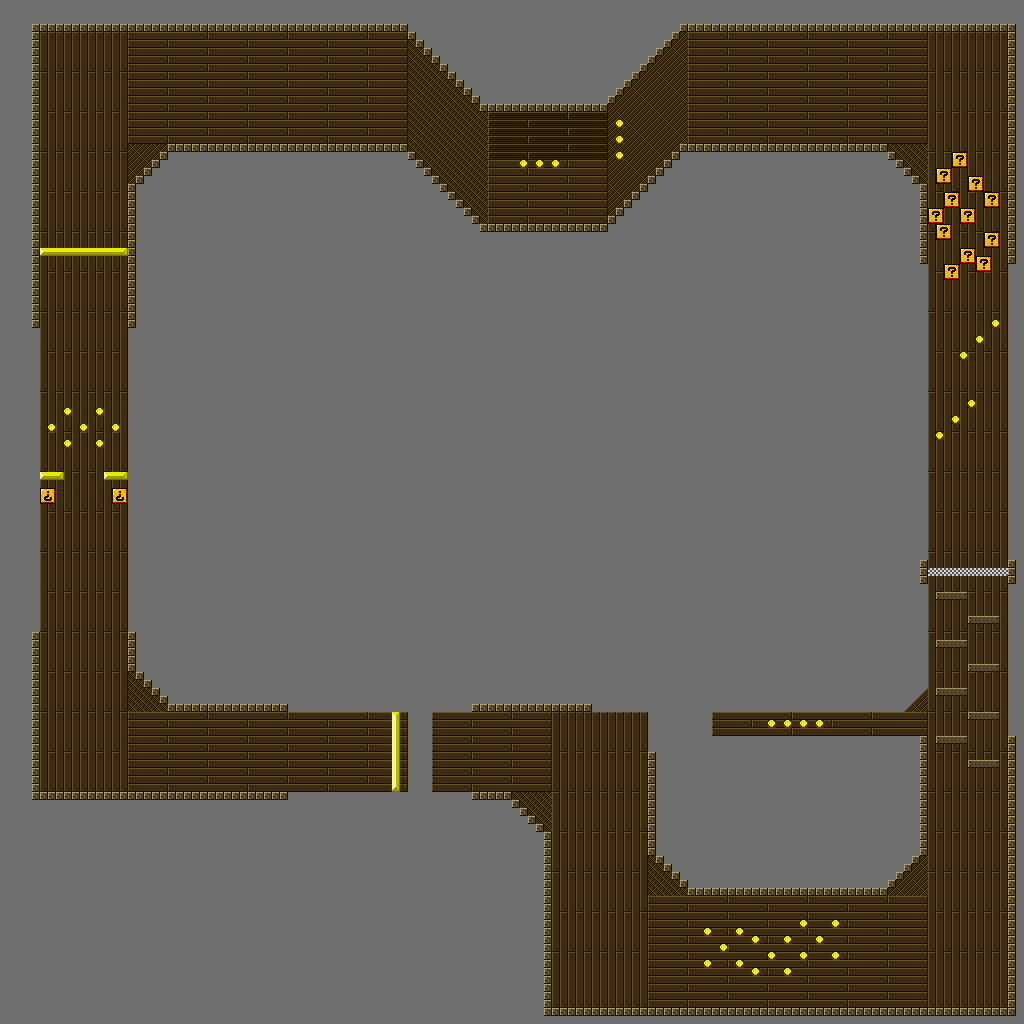
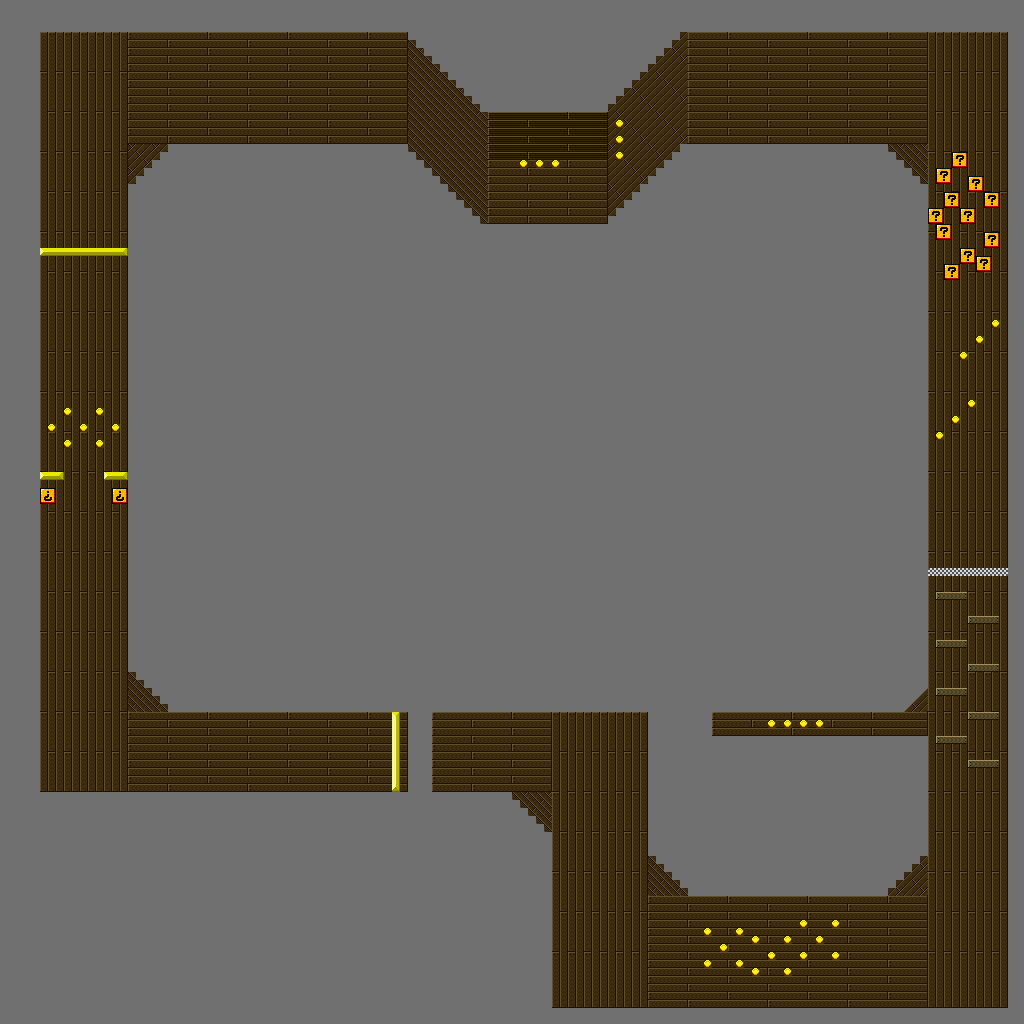
Minor changes

diff --git a/track.py b/track.py
@@ -5,6 +5,7 @@ from graphics import sprite_seq
 
 # self.data
 WALL = chr(0)
+GHOST = chr(40)
 DEEP = chr(50)
 GRASS = chr(127)
 ROAD = chr(255)
@@ -46,11 +47,17 @@ class Track(object):
 		self.data = pyglet.resource.file("%st.pgm" % track_num).read()[15:]
 		self.special_data = pyglet.resource.file("%ss.pgm" % track_num).read()[15:]
 		self.beacons = self.make_beacons()
+		self.objects = {}
 		
 		# create the track's special elements
 		self.item_blocks = {} # dictionary of item blocks indexed by the small coordinates (128x128) of their NE corner
 		self.item_blocks_list = [] # list of item blocks to update at the end of each turn
 		self.start_positions = []
+		# Parse data to place special objects (coins, vanishing wall, ice blocks)
+		for i, c in enumerate(self.data):
+			if c == GHOST:
+				x, y = i % 128, 127 - i / 128
+				self.objects[(x, y)] = ObjectGhostWall(self, x, y)
 		# Parse special data for track elements (finish line, starting positions, etc.)
 		for i, c in enumerate(self.special_data):
 			if c == FINISH and self.special_data[i-1] != FINISH:
@@ -68,7 +75,7 @@ class Track(object):
 			# item block
 				x, y = i % 128, 127 - i/128
 				if not (x, y) in self.item_blocks.keys():
-					new_block = ObjectItemBlock(self, (x+1)*8, y*8)
+					new_block = ObjectItemBlock(self, (x+1), y)
 					self.item_blocks_list.append(new_block)
 					self.item_blocks[(x, y)] = new_block # an item block spans 4 cells in the 128x128 map
 					self.item_blocks[(x+1, y)] = new_block
@@ -82,6 +89,7 @@ class Track(object):
 			self.make_beacons_map()
 			pyglet.resource.reindex()
 			self.beacons_map = pyglet.resource.file("%sbm.pgm" % track_num).read()[15:]
+		print self.objects
 	
 	def make_beacons(self):
 		"""computes the sequence of beacon points from the beacons file"""
@@ -152,19 +160,28 @@ class Track(object):
 		bid = self.get_beacon_id(position)
 		return Vector(self.beacons[bid].x * 8, self.beacons[bid].y * 8)
 	
-	def type(self, position, special=False):
+	def type(self, position, special=False, hit=False):
 		"""returns the track type at given position"""
-		x, y = int(position.x), int(position.y)
-		x = x/8 # compensate for data scale
-		y = 127 - y/8
+		x, y = int(position.x) / 8, int(position.y) / 8
+		i  = x + 128*(127-y)
 		if special:
 			if not(0 <= x < 128 and 0 <= y < 128): # out of map
 				return EMPTY
-			return self.special_data[(x + 128*y)]
+			return self.special_data[i]
 		else:
 			if not(0 <= x < 128 and 0 <= y < 128): # out of map
 				return WALL
-			return self.data[(x + 128*y)]
+			data = self.data[i]
+			if data == GHOST: # ghost house vanishing wall
+				print "Ghost", x, y
+				if (x,y) in self.objects:
+					if hit:
+						self.objects.pop((x, y))
+					return WALL
+				else:
+					return DEEP
+			else:
+				return data
 	
 	def ground_friction(self, position):
 		"""returns the ground friction coefficient corresponding to the given position on the track"""
@@ -178,12 +195,12 @@ class Track(object):
 		for block in self.item_blocks_list:
 			block.update(dt)
 
-class ObjectItemBlock():
+class ObjectItemBlock(object):
+	"""A '?' block that gives a powerup when a car passes on it"""
 	def __init__(self, track, x, y):
 		self.track = track
-		self.position = (x, y)
 		self.delay = 0. # time before it is active again (after being used)
-		self.sprite = pyglet.sprite.Sprite(sprite_seq[10], x, y, batch=self.track.window.batch, group=track.objects_group)
+		self.sprite = pyglet.sprite.Sprite(sprite_seq[10], 8*x, 8*y, batch=self.track.window.batch, group=track.objects_group)
 	def update(self, dt):
 		if self.delay > 0:
 			self.delay -= dt
@@ -193,3 +210,8 @@ class ObjectItemBlock():
 	def activate(self):
 		self.delay = 15.
 		self.sprite.image = sprite_seq[11]
+class ObjectGhostWall(object):
+	"""A wall that disappears when hit by a car or particle"""
+	def __init__(self, track, x, y):
+		self.track = track
+		self.sprite = pyglet.sprite.Sprite(sprite_seq[40], 8 * x + 4, 8 * y + 4, batch=track.window.batch, group=track.objects_group)

diff --git a/items.py b/items.py
@@ -179,12 +179,38 @@ class ParticleGreenShell(Particle):
 		current_position = self.position
 		move = self.get_direction_vector() * self.speed * dt
 		new_position = current_position + move
-		if track.type(new_position) == WALL:
+		if track.type(new_position, hit=True) == WALL:
 		# the shell bounces
-			if track.type(current_position + Vector(move.x, 0)) != WALL:
-				self.direction = -self.direction # bounce against a horizontal wall
-			if track.type(current_position + Vector(0, move.y)) != WALL:
-				self.direction = -self.direction + math.pi # bounce against a vertical wall
+			x = math.floor(new_position.x / 8)
+			y = math.floor(new_position.y / 8)
+			move_left = Vector(-move.y, move.x)
+			if move.x >= 0:
+				if move.y >= 0:
+					to_corner = Vector(8*x - current_position.x, 8*y - current_position.y)
+					if move_left * to_corner >= 0:
+						self.direction = -self.direction
+					else:
+						self.direction = -self.direction + math.pi
+				else:
+					to_corner = Vector(8*x - current_position.x, 8*(y+1) - current_position.y)
+					if move_left * to_corner >= 0:
+						self.direction = -self.direction + math.pi
+					else:
+						self.direction = -self.direction
+			else:
+				if move.y >=0:
+					to_corner = Vector(8*(x+1) - current_position.x, 8*y - current_position.y)
+					if move_left * to_corner >= 0:
+						self.direction = -self.direction + math.pi
+					else:
+						self.direction = -self.direction
+				else:
+					to_corner = Vector(8*(x+1) - current_position.x, 8*(y+1) - current_position.y)
+					if move_left * to_corner >= 0:
+						self.direction = -self.direction
+					else:
+						self.direction = -self.direction + math.pi
+			new_position = current_position
 			self.set_speed(self.speed - 15.)
 			if self.speed <= 40:
 				return self.remove() # if the shell becomes too slow it disappears
@@ -228,7 +254,7 @@ class ParticleRedShell(Particle):
 			self.direction += direction_variation
 		move = self.get_direction_vector() * self.speed * dt
 		new_position = current_position + move
-		if track.type(new_position) in [WALL, DEEP]:
+		if track.type(new_position, hit=True) in [WALL, DEEP]:
 		# the shell hits a wall or a hole and disappears
 			return self.remove()
 		else:

diff --git a/microkart.py b/microkart.py
@@ -30,7 +30,7 @@ def main():
 	window = pyglet.window.Window(1024, 768, config=config, resizable=True) # current window
 	window.batch = pyglet.graphics.Batch() # all the elements to draw will go in this batch
 	window.hidden_batch = pyglet.graphics.Batch() # the elements that are currently not shown
-#	glEnable(GL_LINE_SMOOTH) # enable anti-aliasing
+	glDisable(GL_LINE_SMOOTH) # enable anti-aliasing
 #	glHint (GL_LINE_SMOOTH_HINT, GL_NICEST);
 	glEnable(GL_BLEND) # enable transparency
 	glBlendFunc(GL_SRC_ALPHA, GL_ONE_MINUS_SRC_ALPHA)
@@ -119,7 +119,7 @@ def main():
 		elif symbol == key.D:
 			window.race.player2.input_right = False
 
-	window.race = Race(window, 13, [PEACH, BOWSER, KOOPA, TOAD, MARIO, LUIGI, YOSHI, DKJR])
+	window.race = Race(window, 11, [PEACH, BOWSER, KOOPA, TOAD, MARIO, LUIGI, YOSHI, DKJR])
 	window.ui = UI(window, window.race)
 	pyglet.clock.schedule(update)
 	pyglet.app.run()

diff --git a/car.py b/car.py
@@ -111,7 +111,7 @@ class Car(object):
 	def move(self, new_position):
 		"""move the car"""
 		if not self.state.aerial: # a flying car can move over anything
-			if self.race.track.type(new_position) == WALL:
+			if self.race.track.type(new_position, hit=True) == WALL:
 			# hit a wall
 				self.set_speed(-.25*self.speed) # bounce
 				new_position = self.position # do not move

diff --git a/graphics.py b/graphics.py
@@ -1,7 +1,7 @@
 import pyglet
 
 # prepare the sprites
-sprite_seq = pyglet.image.ImageGrid(pyglet.resource.image('sprite_sheet.gif'), 5, 8)
+sprite_seq = pyglet.image.ImageGrid(pyglet.resource.image('sprite_sheet.gif'), 6, 8)
 for img in sprite_seq:
 	img.anchor_x = img.width / 2
 	img.anchor_y = img.height / 2
